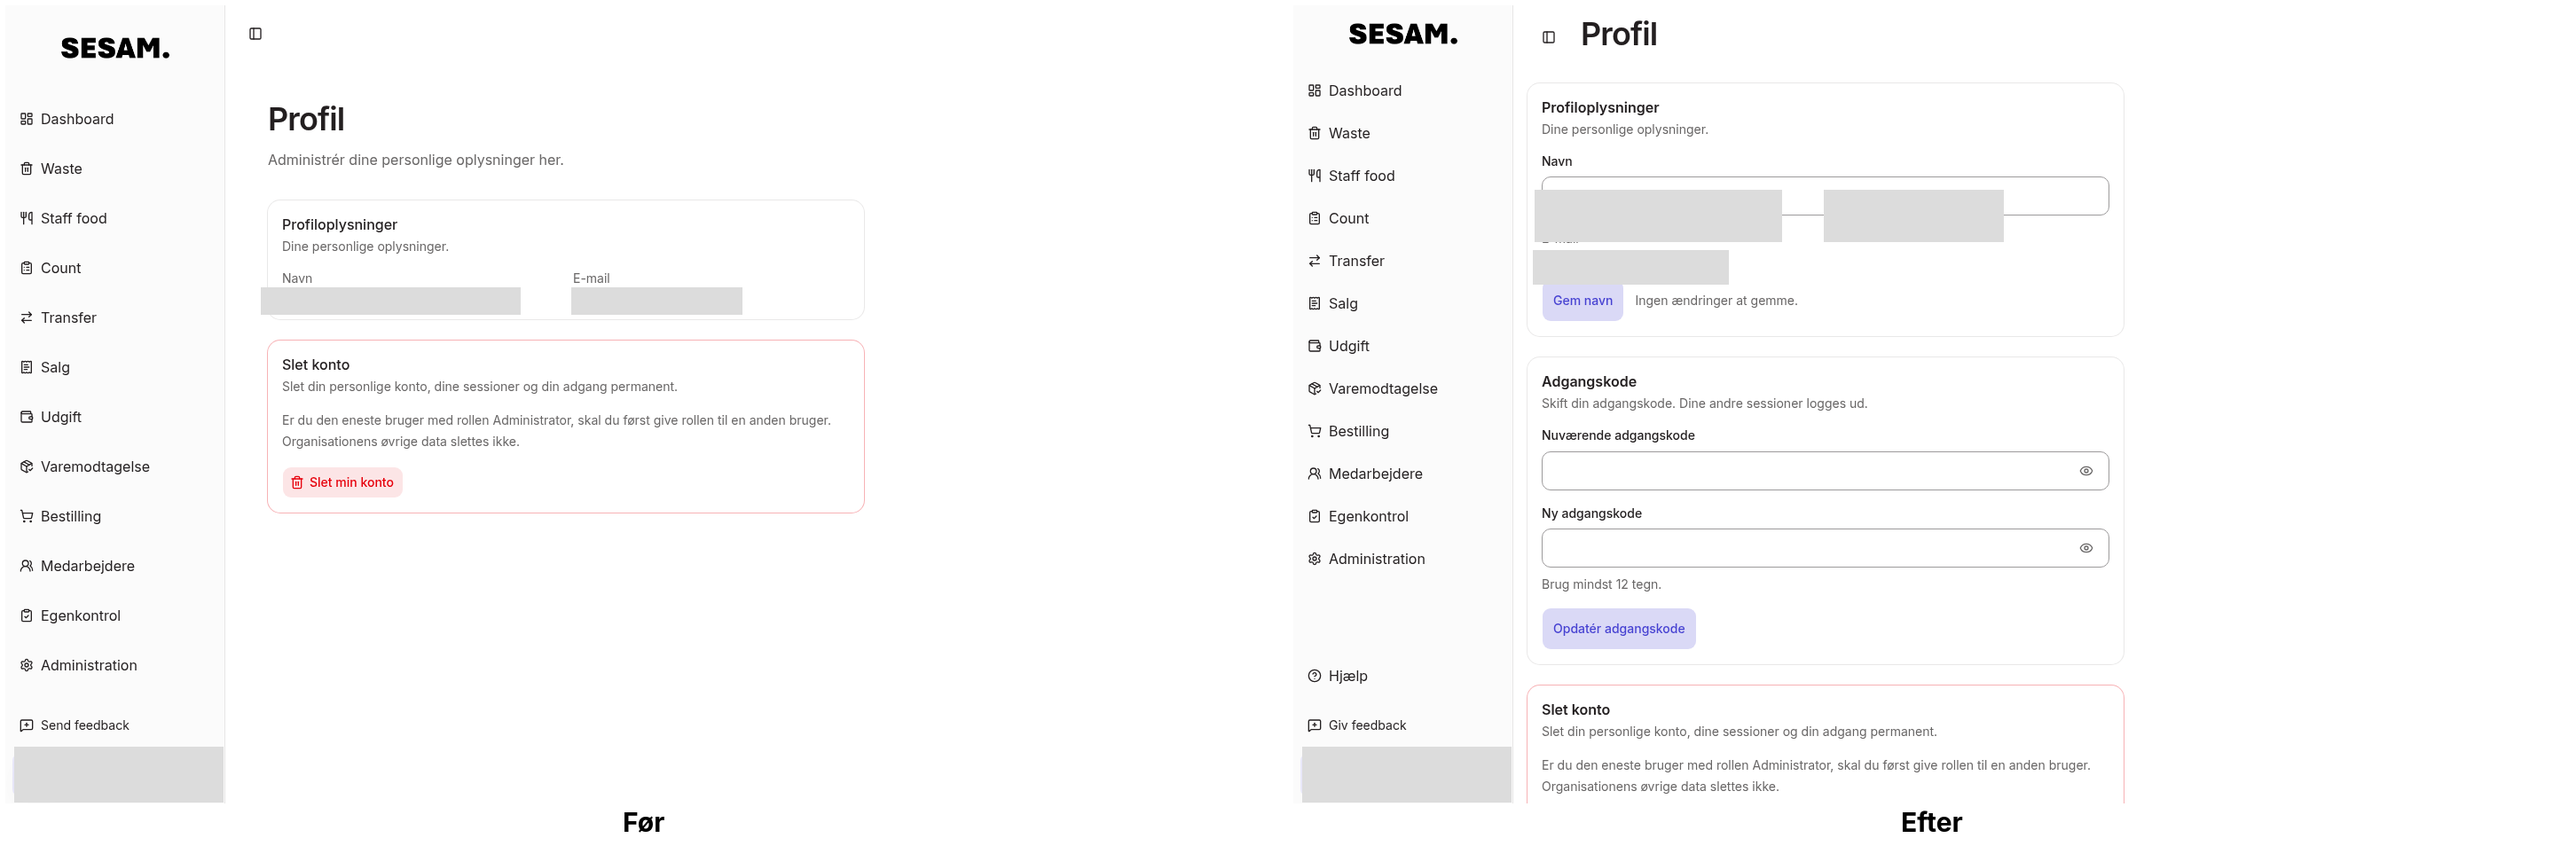
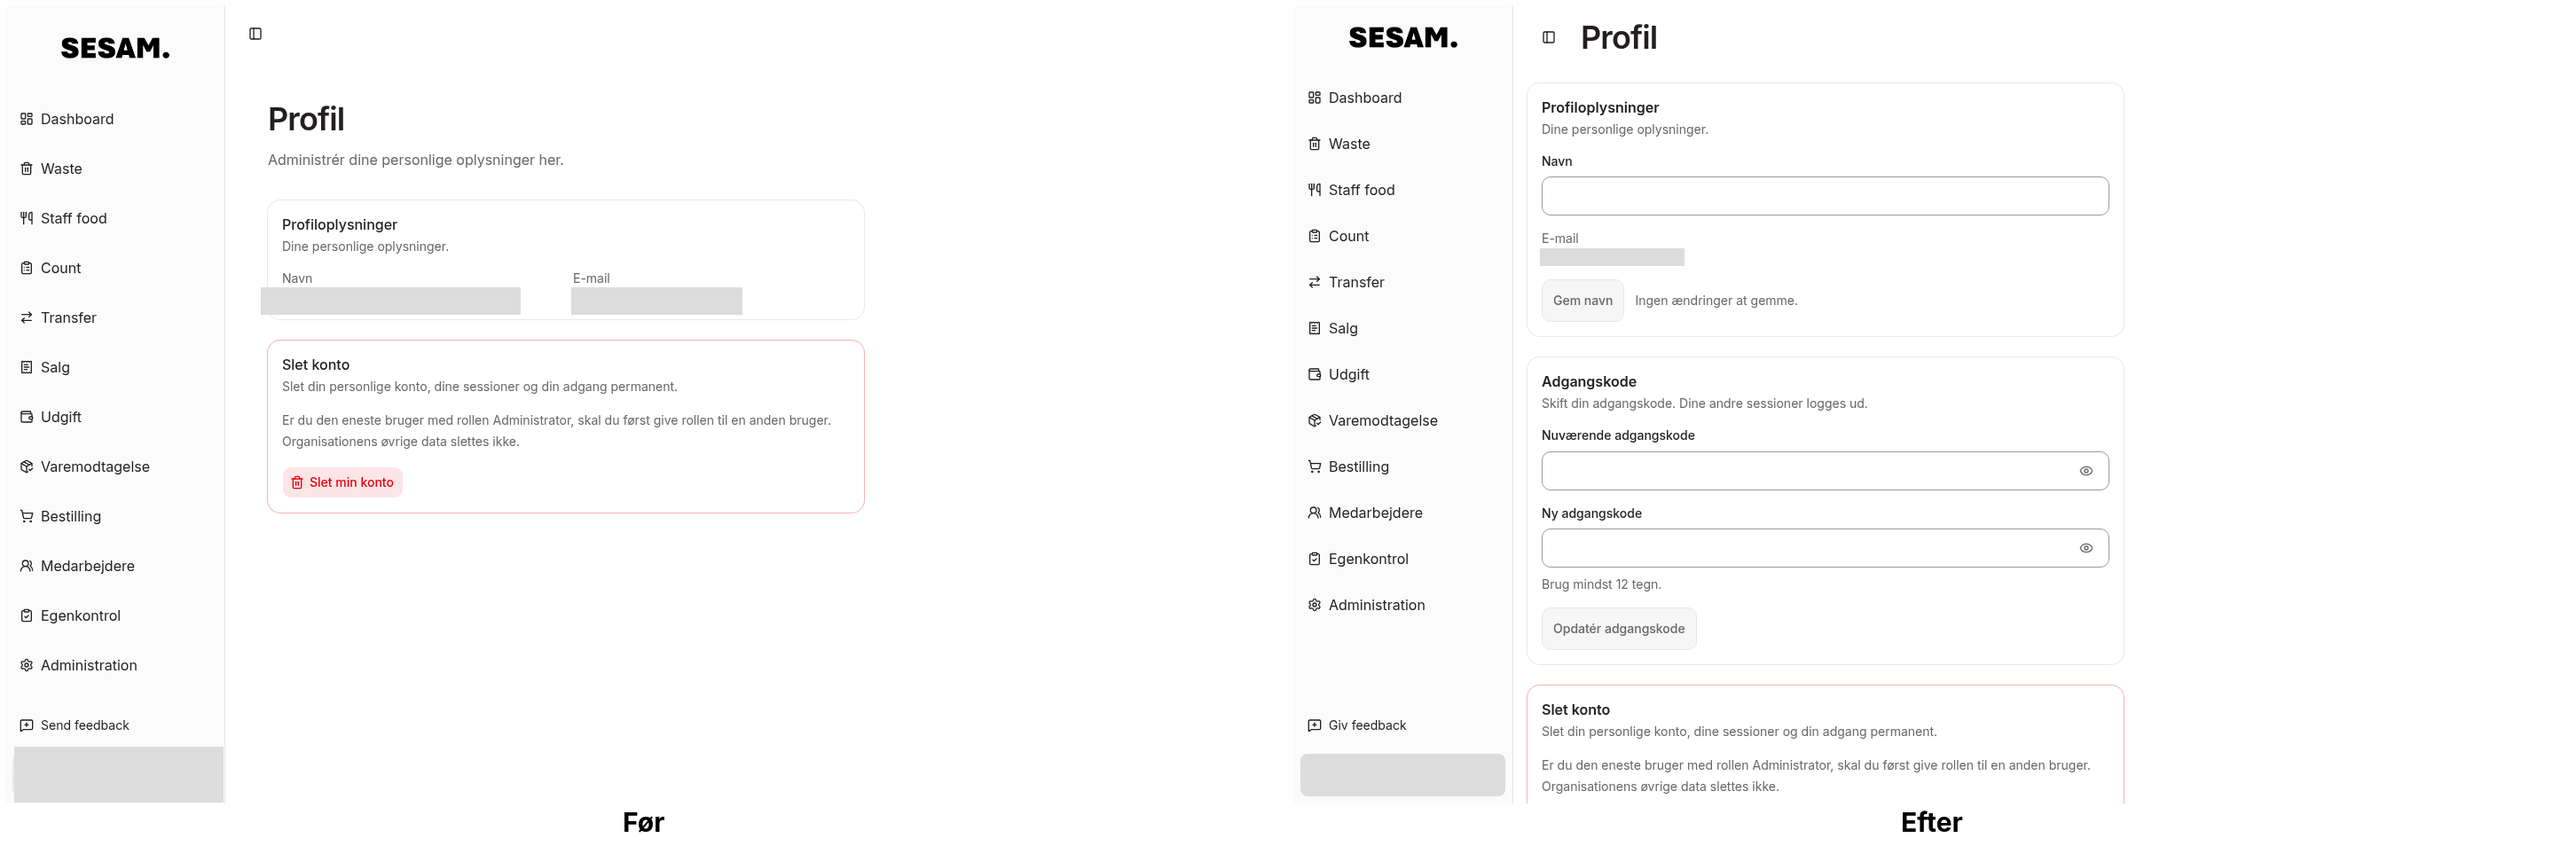
Make disabled buttons neutral and refresh PR screenshots
Disabled primary buttons were a pale brand tint that read as a soft active
button, so use neutral grey with a border. Stack the Transfer bottom bar until
xl so the section tabs are not squeezed behind the save action at laptop
widths. Rebuild the before/after composites, with personal data greyed out in
the tablet shots too.

diff --git a/components/transfers/transfer-form.tsx b/components/transfers/transfer-form.tsx
@@ -875,9 +875,9 @@ export function TransferForm({
     ? `${missingText.charAt(0).toUpperCase()}${missingText.slice(1)} for at gemme`
     : null;
   const actions = (
-    <div className="flex flex-col-reverse gap-2 lg:ml-auto lg:flex-row lg:items-center">
+    <div className="flex flex-col-reverse gap-2 xl:ml-auto xl:flex-row xl:items-center">
       {missingForSave ? (
-        <p className="text-xs text-muted-foreground max-lg:order-first max-lg:text-center lg:whitespace-nowrap">
+        <p className="text-xs text-muted-foreground max-xl:order-first max-xl:text-center xl:whitespace-nowrap">
           {missingForSave}
         </p>
       ) : null}
@@ -1346,7 +1346,7 @@ export function TransferForm({
         </div>
       ) : (
         <AppBottomBar>
-          <div className="mx-auto flex w-full max-w-(--container-page) flex-col-reverse items-stretch gap-2 lg:flex-row lg:items-center">
+          <div className="mx-auto flex w-full max-w-(--container-page) flex-col-reverse items-stretch gap-2 xl:flex-row xl:items-center">
             {navigation ? (
               <div className="min-w-0" inert={isSaving}>
                 {navigation}

diff --git a/components/ui/button.tsx b/components/ui/button.tsx
@@ -9,7 +9,7 @@ const buttonVariants = cva(
     variants: {
       variant: {
         default:
-          "bg-primary text-primary-foreground hover:bg-primary/80 disabled:bg-primary/15 disabled:text-primary/70 disabled:opacity-100",
+          "bg-primary text-primary-foreground hover:bg-primary/80 disabled:border-border disabled:bg-muted disabled:text-muted-foreground disabled:opacity-100",
         outline:
           "border-border bg-background hover:bg-muted hover:text-foreground aria-expanded:bg-muted aria-expanded:text-foreground dark:border-input dark:bg-input/30 dark:hover:bg-input/50",
         secondary:
